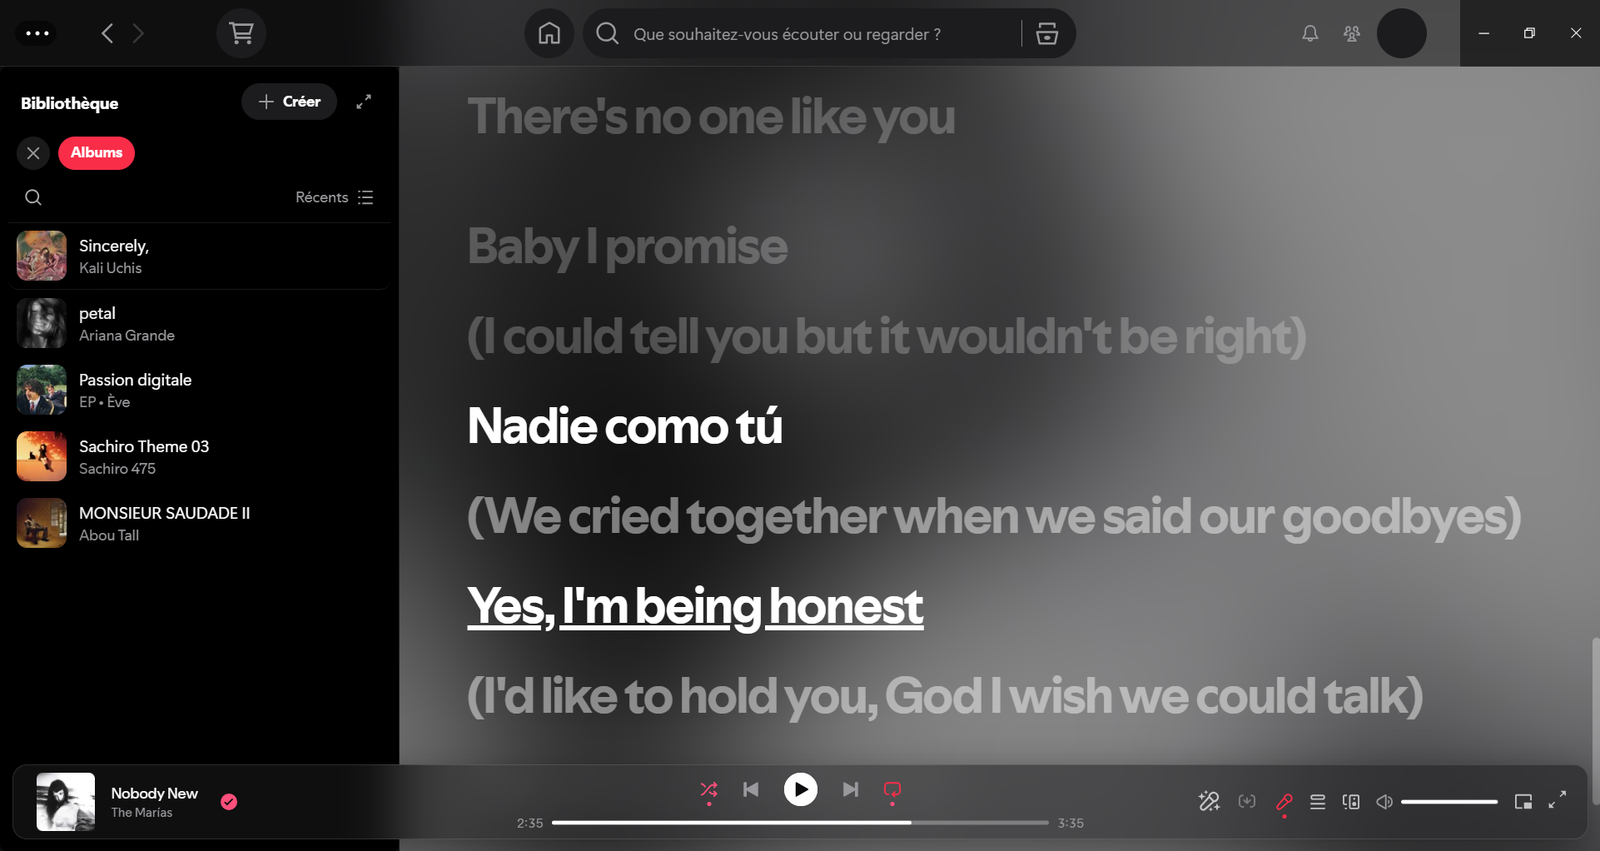
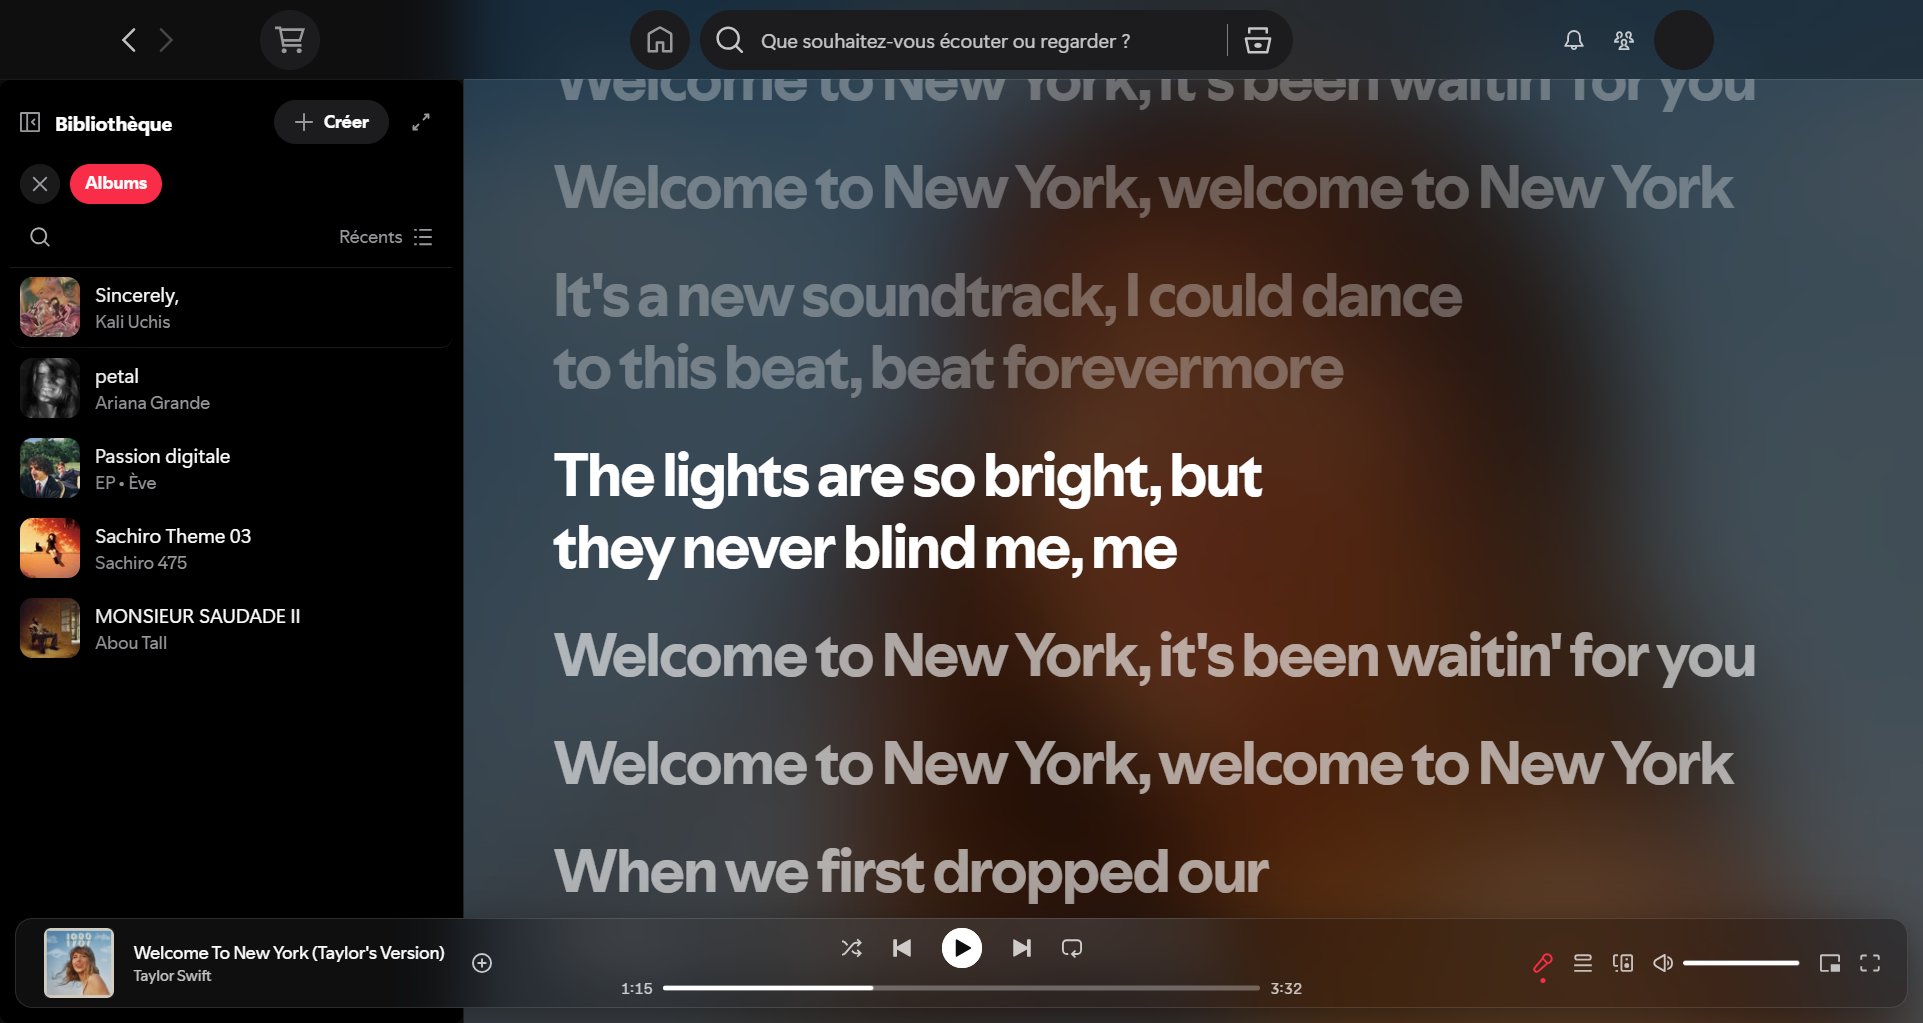
Complete Light scheme: lyrics, fullscreen, Canvas and panel fixes
- Lyrics page and every fullscreen mode follow the scheme, over a blurred
  cover, from any page. The artist photo mode keeps its light controls.
- Canvas fades out instead of ending on a hard edge against the white page.
- Now Playing panel: flat corners, glass title bar once scrolled, frosted
  lyrics preview, readable text over Canvas and artist photos.
- Readable grey text on glass: player, global bar, search suggestions and
  Liked Songs header. Darker active pink in Light.
- theme.js: cover read from Spotify's player state when Spicetify.Player
  is still empty, page state checks limited to five per second.
- Spicy Lyrics rules moved to their own compatibility section.
- README: Light scheme screenshots.

diff --git a/AppleMusic/user.css b/AppleMusic/user.css
@@ -42,6 +42,8 @@ html, body, .encore-dark-theme, .encore-light-theme, .encore-base-set,
 }
 #global-nav-bar {
   --panel-gap: 0px;
+  /* Stock grey icons and suggestions sink into the glass over a dark photo in the Light scheme */
+  --text-subdued: rgba(var(--spice-rgb-text), 0.75);
   background-color: transparent !important;
   padding: 0 16px;
   margin: 0;
@@ -111,12 +113,6 @@ html, body, .encore-dark-theme, .encore-light-theme, .encore-base-set,
 #Desktop_PanelContainer_Id {
   background-color: var(--spice-sidebar) !important;
   border-left: 1px solid var(--am-separator);
-}
-/* Spicy Lyrics paints a dark artwork background there: keep its text light in either scheme */
-#Desktop_PanelContainer_Id[class*="spicy-dynamic-bg"] {
-  --text-base: #fff;
-  --text-subdued: rgba(255, 255, 255, 0.7);
-  color: rgba(255, 255, 255, 0.7);
 }
 
 /* ---------- Global bar ---------- */
@@ -320,6 +316,9 @@ button[aria-checked="true"] svg,
   padding-bottom: 96px;
 }
 [data-testid="now-playing-bar"] {
+  /* The capsule can sit over a dark page in the Light scheme: stock grey would sink into the glass */
+  --text-subdued: rgba(var(--spice-rgb-text), 0.75);
+  color: var(--text-subdued);
   background: transparent !important;
   border: 0 !important;
   padding: 0 12px 12px;
@@ -431,11 +430,54 @@ a:hover { text-decoration: none; }
   -webkit-backdrop-filter: var(--am-blur);
   backdrop-filter: var(--am-blur);
 }
-/* Spicy Lyrics' big cover ends in a hard edge that shows through the translucent lyrics card:
-   fade it into the page instead */
-#Desktop_PanelContainer_Id [class*="SpicyLyrics_NPVStretch"] img[alt=""]:only-child {
-  -webkit-mask-image: linear-gradient(to bottom, #000 calc(100% - 160px), transparent);
-  mask-image: linear-gradient(to bottom, #000 calc(100% - 160px), transparent);
+/* The Now Playing panel is a flat column: Spotify rounds its wrappers and the Canvas hero by 8px, which
+   shows as notches against the white page in the Light scheme. Plain covers keep their rounding.
+   .am-canvas comes from theme.js. */
+#main-view + div,
+#main-view + div > div,
+#main-view + div > div > div,
+#main-view + div > div > div > div,
+#Desktop_PanelContainer_Id > div,
+.am-canvas #Desktop_PanelContainer_Id [data-overlayscrollbars-viewport] > div > div:first-child > div:first-child > div:first-child,
+.am-canvas #Desktop_PanelContainer_Id [data-overlayscrollbars-viewport] > div > div:first-child > div:first-child > div:first-child :is(video, img) {
+  border-radius: 0 !important;
+}
+/* The Canvas fades out: its hard bottom edge shows against the white page in the Light scheme */
+.am-canvas #Desktop_PanelContainer_Id [data-overlayscrollbars-viewport] > div > div:first-child > div:first-child > div:first-child {
+  -webkit-mask-image: linear-gradient(to bottom, #000 calc(100% - 170px), transparent);
+  mask-image: linear-gradient(to bottom, #000 calc(100% - 170px), transparent);
+}
+/* Spotify darkens the Canvas under the panel's title: light text there in either scheme */
+.am-canvas:not(.am-panel-scrolled) #Desktop_PanelContainer_Id > div > div:first-child,
+.am-canvas #Desktop_PanelContainer_Id [data-overlayscrollbars-viewport] > div > div:nth-child(2) > div:nth-child(2) {
+  --text-base: #fff;
+  --text-subdued: rgba(255, 255, 255, 0.7);
+  color: rgba(255, 255, 255, 0.7);
+}
+/* Once the panel scrolls, its title bar is glass instead of a solid band with a hard edge */
+.am-panel-scrolled #Desktop_PanelContainer_Id > div > div:first-child {
+  background: var(--am-glass) !important;
+  -webkit-backdrop-filter: var(--am-blur);
+  backdrop-filter: var(--am-blur);
+}
+/* Cards with a photo behind their text ("About the artist"): light text in either scheme */
+#Desktop_PanelContainer_Id [style*="background-image: linear-gradient"] {
+  --text-base: #fff;
+  --text-subdued: rgba(255, 255, 255, 0.7);
+  color: rgba(255, 255, 255, 0.7);
+}
+/* Spotify's own lyrics preview card in the right panel: neutral frosted glass in the scheme's own colours
+   (Spotify hands it white lyrics, which vanish on the Light panel) */
+[data-testid="lyrics-npv-section"] {
+  --lyrics-color-active: var(--spice-text) !important;
+  --lyrics-color-inactive: rgba(var(--spice-rgb-text), 0.55) !important;
+  --lyrics-color-passed: rgba(var(--spice-rgb-text), 0.55) !important;
+  background-color: rgba(var(--spice-rgb-main), 0.5) !important;
+  -webkit-backdrop-filter: blur(18px) saturate(0.3);
+  backdrop-filter: blur(18px) saturate(0.3);
+  border: 1px solid rgba(var(--spice-rgb-text), 0.12);
+  border-radius: 16px;
+  box-shadow: inset 0 1px 0 rgba(var(--spice-rgb-text), 0.1);
 }
 /* The suggestions panel under the search field: glass like the menus */
 #search-dropdown > div {
@@ -482,33 +524,108 @@ section[data-testid$="-page"] div[style*="--background-base"] {
 .am-lyrics #main-view {
   position: relative;
   overflow: hidden;
-  background: #000;
+  background: var(--spice-main);
 }
 .am-lyrics #main-view::before {
   content: "";
   position: absolute;
   inset: -15%;
-  background: var(--am-cover) center / cover no-repeat;
-  filter: blur(48px) saturate(1.8) brightness(0.72);
+  background: linear-gradient(rgba(var(--spice-rgb-main), 0.6), rgba(var(--spice-rgb-main), 0.6)), var(--am-cover) center / cover no-repeat;
+  filter: blur(48px) saturate(1.6);
 }
 .am-lyrics #main-view > div {
   background: transparent !important;
 }
-#main-view [style*="--lyrics-color-background"] {
+[style*="--lyrics-color-background"] {
   --lyrics-color-background: transparent !important;
-  --lyrics-color-inactive: rgba(255, 255, 255, 0.45) !important;
-  --lyrics-color-passed: rgba(255, 255, 255, 0.45) !important;
+  --lyrics-color-active: var(--spice-text) !important;
+  --lyrics-color-inactive: rgba(var(--spice-rgb-text), 0.6) !important;
+  --lyrics-color-passed: rgba(var(--spice-rgb-text), 0.6) !important;
 }
-.am-lyrics #main-view [style*="--cinema-mode-bg-color-from"] {
+.am-lyrics [style*="--cinema-mode-bg-color-from"] {
   --cinema-mode-bg-color-from: transparent !important;
   --cinema-mode-bg-color-to: transparent !important;
+  --background-base: transparent !important;
 }
-.am-lyrics #main-view [style*="--cinema-mode-bg-color-from"] > div {
+.am-lyrics [style*="--cinema-mode-bg-color-from"] > div {
   background-color: transparent !important;
+}
+/* Fullscreen view (lyrics, cover, Canvas): the same blurred cover as the Lyrics page instead of Spotify's
+   flat colour. The artist photo mode fills the screen on its own, so .am-lyrics is off there. */
+.am-lyrics [style*="--cinema-mode-bg-color-from"] {
+  overflow: clip;
+}
+.am-lyrics [style*="--cinema-mode-bg-color-from"]::before {
+  content: "";
+  position: absolute;
+  inset: -15%;
+  z-index: -1;
+  background: linear-gradient(rgba(var(--spice-rgb-main), 0.6), rgba(var(--spice-rgb-main), 0.6)), var(--am-cover) center / cover no-repeat;
+  filter: blur(48px) saturate(1.6);
+}
+
+/* Header meta lines ("785 titres", "42 h") get a hardcoded white from Spotify, which vanishes once the tinted
+   backdrop is cleared in the Light scheme: follow the scheme's text colour (white in Dark, so unchanged there) */
+[data-testid="entity-header"] [style*="--text-subdued"] {
+  --text-subdued: rgba(var(--spice-rgb-text), 0.7) !important;
+}
+
+/* Fullscreen view: Spotify draws the controls and the playlist name in white for its coloured backdrop */
+.am-lyrics [style*="--header-text-color"] {
+  --header-text-color: var(--spice-text) !important;
+  --header-buttons-hover-bg: rgba(var(--spice-rgb-text), 0.1) !important;
+  --text-base: var(--spice-text) !important;
+  --text-subdued: rgba(var(--spice-rgb-text), 0.7) !important;
+  --text-bright-accent: var(--am-accent) !important;
+  --essential-base: var(--spice-text) !important;
+  --essential-subdued: rgba(var(--spice-rgb-text), 0.7) !important;
+  --essential-bright-accent: var(--am-accent) !important;
+}
+.am-lyrics [style*="--header-text-color"]::before {
+  background: none !important;
+}
+
+/* Fullscreen artist photo: its controls stay light in either scheme, active dot included */
+html:not(.am-lyrics) [style*="--header-text-color"] {
+  --text-base: #fff;
+  --essential-base: #fff;
 }
 
 /* Album/other headers set their tint through --background-base: clear it */
 [data-testid="entity-header"] > div[style*="--background-base"],
 section[data-testid$="-page"] > div[style*="--background-base"] {
   background: transparent !important;
+}
+
+/* ---------- Compatibility with other extensions ----------
+   Everything above is the theme on its own. Rules below only matter when the named extension is installed. */
+
+/* Spicy Lyrics */
+/* Spicy Lyrics paints a dark artwork background there: keep its text light in either scheme */
+#Desktop_PanelContainer_Id[class*="spicy-dynamic-bg"] {
+  --text-base: #fff;
+  --text-subdued: rgba(255, 255, 255, 0.7);
+  color: rgba(255, 255, 255, 0.7);
+}
+
+/* Spicy Lyrics paints the whole panel: its title bar stays clear */
+.am-panel-scrolled #Desktop_PanelContainer_Id[class*="spicy-dynamic-bg"] > div > div:first-child {
+  background: transparent !important;
+  -webkit-backdrop-filter: none;
+  backdrop-filter: none;
+}
+
+/* Spicy Lyrics' lyrics card in the right panel: neutral frosted glass. No saturation boost: over a
+   Canvas video it turned the colourful ambient background into patches of pink and magenta */
+#SpicyLyricsNPVCard {
+  background-color: rgba(18, 18, 22, 0.3) !important;
+  -webkit-backdrop-filter: blur(18px) saturate(0.3);
+  backdrop-filter: blur(18px) saturate(0.3);
+  border: 1px solid rgba(255, 255, 255, 0.12);
+  box-shadow: inset 0 1px 0 rgba(255, 255, 255, 0.16);
+}
+/* Spicy Lyrics' ambient background in the panel, toned down so it stays a soft glow behind videos */
+#Desktop_PanelContainer_Id canvas.spicy-dynamic-bg {
+  filter: saturate(0.45);
+  border-radius: 0 !important;
 }

diff --git a/AppleMusic/theme.js b/AppleMusic/theme.js
@@ -13,33 +13,63 @@
       }
     });
   }
+  // The page state checks scan the whole DOM: at most five times a second, not on every frame
+  let viewsQueued = 0;
+  function queueViews() {
+    if (!viewsQueued) viewsQueued = setTimeout(() => { viewsQueued = 0; setCover(); flagViews(); }, 200);
+  }
   new MutationObserver(() => {
     if (!queued) { queued = true; requestAnimationFrame(tag); }
+    queueViews();
   }).observe(document.body, { childList: true, subtree: true });
   tag();
+  queueViews();
 
-  // Exposes the playing cover as --am-cover for the blurred lyrics backdrop.
+  // Exposes the playing cover as --am-cover for the blurred lyrics backdrop. Runs from the mutation observer:
+  // Spicetify.Player can stay empty after a cold start, while Spotify's own player state is already there.
+  let cover = "";
   function setCover() {
-    const uri = Spicetify.Player.data?.item?.metadata?.image_xlarge_url;
-    if (!uri) return;
+    const item = window.Spicetify?.Player?.data?.item || window.Spicetify?.Platform?.PlayerAPI?.getState?.()?.item;
+    const uri = item?.metadata?.image_xlarge_url;
+    if (!uri || uri === cover) return;
+    cover = uri;
     const url = uri.startsWith("spotify:image:") ? "https://i.scdn.co/image/" + uri.split(":").pop() : uri;
     document.documentElement.style.setProperty("--am-cover", `url("${url}")`);
   }
-  (function waitForPlayer() {
-    if (!window.Spicetify?.Player?.data?.item) return setTimeout(waitForPlayer, 300);
-    Spicetify.Player.addEventListener("songchange", setCover);
-    setCover();
-  })();
 
-  // Flags the lyrics page with .am-lyrics (a CSS :has() for this froze hovering) and Home with
-  // .am-home (Spotify's active-link class has no stable name on macOS) and search results with
-  // .am-search (their sticky filter bar has no stable hook of its own).
+  // Flags what CSS can't see without a :has(), which froze hovering:
+  // .am-lyrics: the lyrics page, or the fullscreen view, which opens over any page without changing the route.
+  // Its artist photo mode is left out: the photo fills the screen and sets --cinema-mode-bg-image.
+  // .am-canvas: the Now Playing panel shows a Canvas: a video, or its tall poster (a plain cover is square).
+  function flagViews() {
+    const root = document.documentElement.classList;
+    const cinema = document.querySelector('[style*="--cinema-mode-bg-color-from"]');
+    root.toggle("am-lyrics", window.Spicetify?.Platform?.History?.location.pathname === "/lyrics"
+      || (!!cinema && !cinema.style.getPropertyValue("--cinema-mode-bg-image")));
+    // The photo is set late, with no DOM change for the observer to see: keep checking while the view is open
+    if (cinema) queueViews();
+    root.toggle("am-canvas", [...document.querySelectorAll('#Desktop_PanelContainer_Id video, #Desktop_PanelContainer_Id img[alt=""]')].some((el) => {
+      const box = el.getBoundingClientRect();
+      return box.width > 200 && (el.tagName === "VIDEO" || box.height > box.width);
+    }));
+  }
+
+  // .am-panel-scrolled: the Now Playing panel has scrolled, so its title no longer sits on the hero.
+  document.addEventListener("scroll", (event) => {
+    // Only the panel's own scroller: carousels and Spicy Lyrics' lyrics scroll inside it too
+    if (event.target.matches?.("#Desktop_PanelContainer_Id > div > div > [data-overlayscrollbars-viewport]")) {
+      document.documentElement.classList.toggle("am-panel-scrolled", event.target.scrollTop > 0);
+    }
+  }, { capture: true, passive: true });
+
+  // Also flags Home with .am-home (Spotify's active-link class has no stable name on macOS) and
+  // search results with .am-search (their sticky filter bar has no stable hook of its own).
   (function waitForHistory() {
     const history = window.Spicetify?.Platform?.History;
     if (!history) return setTimeout(waitForHistory, 300);
     const flag = (loc) => {
       const root = document.documentElement.classList;
-      root.toggle("am-lyrics", loc.pathname === "/lyrics");
+      flagViews();
       root.toggle("am-home", loc.pathname === "/");
       root.toggle("am-search", loc.pathname.startsWith("/search/"));
     };

diff --git a/README.md b/README.md
@@ -17,7 +17,7 @@
 - **Immersive pages.** Artist and playlist photos run up under the glass and fade into the page, with no tinted Spotify gradients.
 - **Lyrics over your artwork.** The lyrics page shows the current cover, heavily blurred, and follows every track change.
 - **Apple Music details.** Rounded covers, big bold titles and the `#FA2D48` pink accent, with no leftover Spotify green.
-- **Dark and Light.** Two complete colour schemes.
+- **Dark and Light.** Two complete colour schemes, lyrics views included.
 - **Fast.** The theme avoids `:has()` selectors, which caused freezes of about 400 ms when moving the mouse quickly over track lists.
 
 ## Screenshots
@@ -29,8 +29,20 @@
 | ![Playlist page with its photo under the glass top bar](images/playlist.png) | ![Artist page fading into the black page](images/artist.png) |
 | **Sticky glass header** | **Lyrics over the blurred cover** |
 | ![Album track list scrolling under the glass header](images/album.png) | ![Lyrics page over the blurred album art](images/lyrics.png) |
-| **Glass context menu** | **Light scheme** |
-| ![Right-click menu with a frosted glass background](images/menu.png) | ![Light scheme album page](images/light.png) |
+| **Glass context menu** | |
+| ![Right-click menu with a frosted glass background](images/menu.png) | |
+
+### Light scheme
+
+| Glass search suggestions | Glass filter bar on search results |
+| --- | --- |
+| ![Light scheme: search suggestions in a frosted glass panel over an artist page](images/light-search.png) | ![Light scheme: search results scrolling under a glass filter bar](images/light-search-results.png) |
+| **Lyrics over the blurred cover** | **Fullscreen lyrics** |
+| ![Light scheme: lyrics over a light blurred cover](images/light-lyrics.png) | ![Light scheme: fullscreen lyrics over a light blurred cover](images/light-fullscreen.png) |
+| **Playlist** | **Artist page** |
+| ![Light scheme: playlist page with its photo under the glass top bar](images/light-playlist.png) | ![Light scheme: artist page fading into the white page](images/light-artist.png) |
+| **Sticky glass header** | **Glass context menu** |
+| ![Light scheme: album track list under the glass header](images/light-album.png) | ![Light scheme: right-click menu with a frosted glass background](images/light-menu.png) |
 
 ## Installation
 
